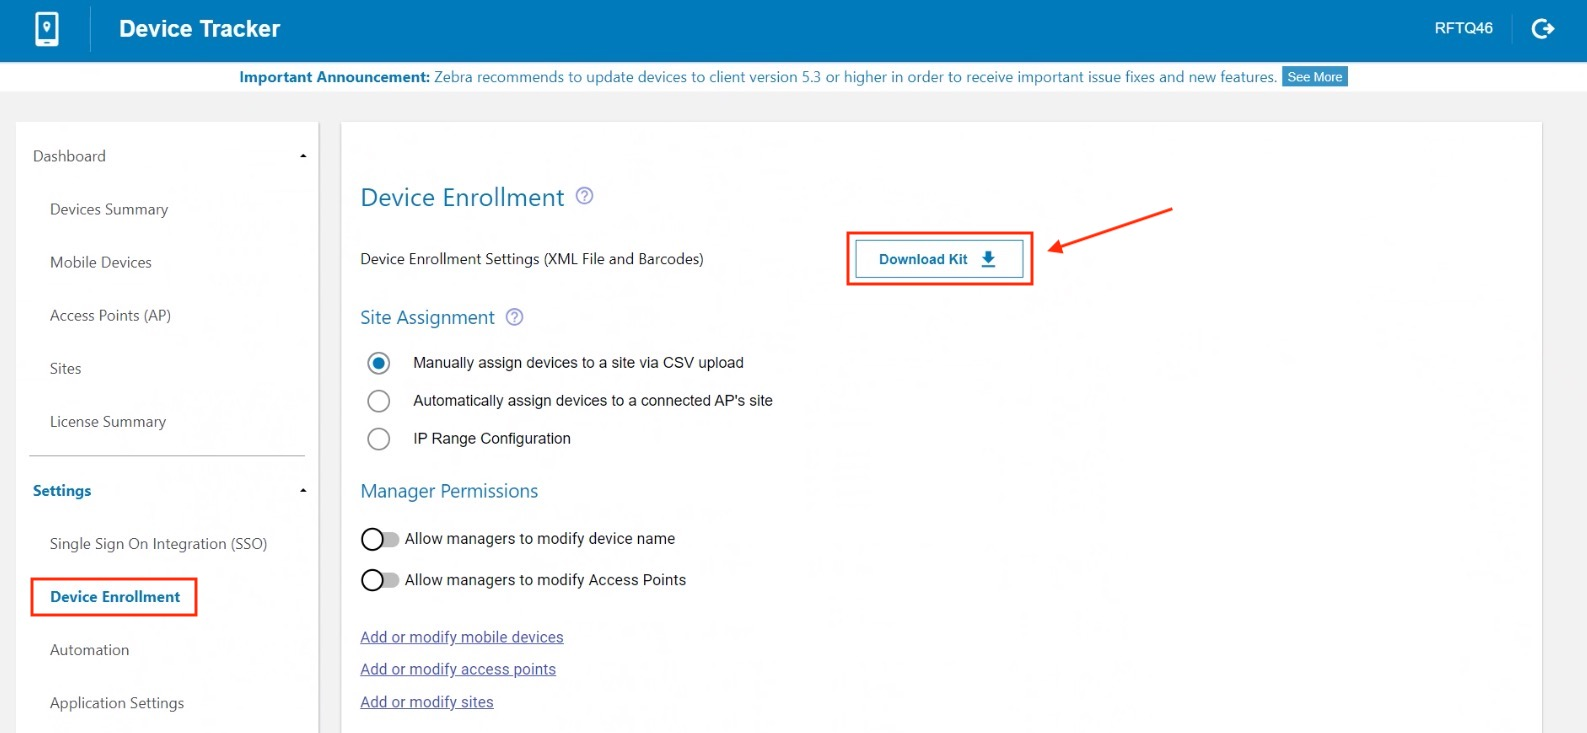
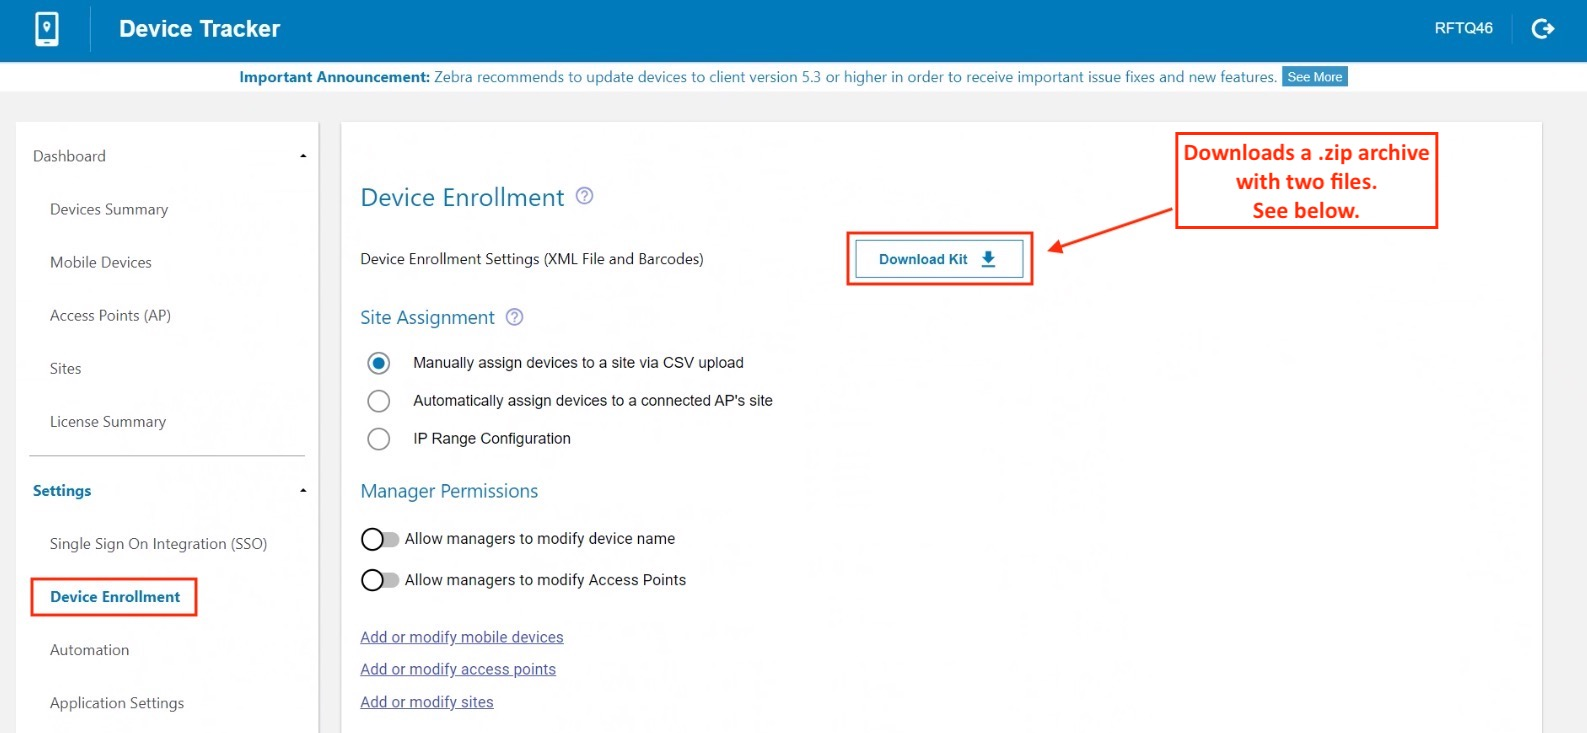
[DLM-26074] DeviceTracker 5.5 updates, per eng, tweex

Changed region(s): [[0.741, 0.1801, 0.9263, 0.3302]]

diff --git a/devicetracker/5-5/guide/config/index.html b/devicetracker/5-5/guide/config/index.html
@@ -1352,14 +1352,50 @@ Sample device .CSV file content:</p>
 
 <h3 id="enrolldevices" class="anchor"><a class="heading-anchor" href="#enrolldevices"><span></span></a>Enroll Devices</h3>
 
-<p>All devices must be enrolled in Device Tracker before they can be found by Device Tracker or be used for finding other devices. Device enrollment can be done manually by scanning a barcode with the device being enrolled, or remotely by pushing an XML file to a fleet of devices to be enrolled. Enrollment enables devices to communicate with the organization's Device Tracker server instance, and is therefore a required step for preparing a site to use the solution. </p>
+<p><u><strong>Enrollment is a required step for preparing a site to use Device Tracker</strong></u>; it configures devices to communicate with the organization's Device Tracker server instance. <strong>All devices must be enrolled before they can be found by Device Tracker or be used for finding other devices</strong>.</p>
 
-<p>As part of Zebra's Device Tracker on-boarding process, enrollment XML and barcode files are sent to the administrator to facilitate device enrollment along with a link to the organization's server instance and other details. Device Tracker 5.5 (and later) also allow these files to be downloaded from the Device Enrollment section of the Device Tracker Settings panel (see image below). 
-<img alt="image" style="height:400px" src="dt55_downloadXML.jpg"></p>
+<p><strong>Devices can be enrolled</strong>... </p>
+
+<ul>
+<li><strong>Manually</strong>, by scanning a barcode with the device being enrolled <br>
+<strong><em>~OR~</em></strong><br></li>
+
+<li><strong>Remotely</strong>, by pushing an XML file via EMM to a fleet of devices being enrolled </li>
+</ul>
+
+<blockquote>
+  <p><i class="fa fa-exclamation-triangle" style="color:#FFA500;"></i> <strong>Separate enrollment barcodes are needed for Android 13 (or later) and Android 11 (or earlier)</strong>. See below.<br>
+  <i class="fa fa-check-circle" style="color:#27AE60;"></i> <strong>The enrollment XML file is supported by Zebra devices running any Android version</strong>.</p>
+</blockquote>
+
+<p><strong>As part of Zebra's Device Tracker on-boarding process</strong>, an enrollment barcode is emailed to the requester or administrator. Device Tracker 5.5 (and later) allows admins to download a more complete enrollment set of files: 
+<img alt="image" style="height:400px" src="dt55_downloadXML.jpg">
+<em>Click image to enlarge; ESC to exit</em>.
+<br></p>
+
+<p><strong>The "Kit"</strong> (a <code>.zip</code> archive) <strong>contains two files</strong>: </p>
+
+<ul>
+<li><code>DT_EnrollmentBarcode.pdf</code> with two barcode types:
+
+
+<ul>
+<li><strong>PDF417</strong> enrolls devices running <strong>Android 11 or OLDER</strong></li>
+
+<li><strong>PDF417JS</strong> enrolls devices running <strong>Android 13 or NEWER</strong></li></ul>
+</li>
+
+<li><code>DT_EnrollmentforEMM.xml</code>: 
+
+
+<ul>
+<li>Push with an EMM system to <strong>enroll devices running any Android version</strong></li></ul>
+</li>
+</ul>
 
 <h3 id="adddevices" class="anchor"><a class="heading-anchor" href="#adddevices"><span></span></a>Add Devices</h3>
 
-<p>Register devices either manually or by uploading the .CSV file.</p>
+<p>Register devices either manually or by uploading the .CSV file to the Device Tracker server instance.</p>
 
 <h4 id="manual-6" class="anchor"><a class="heading-anchor" href="#manual-6"><span></span></a>Manual</h4>
 
